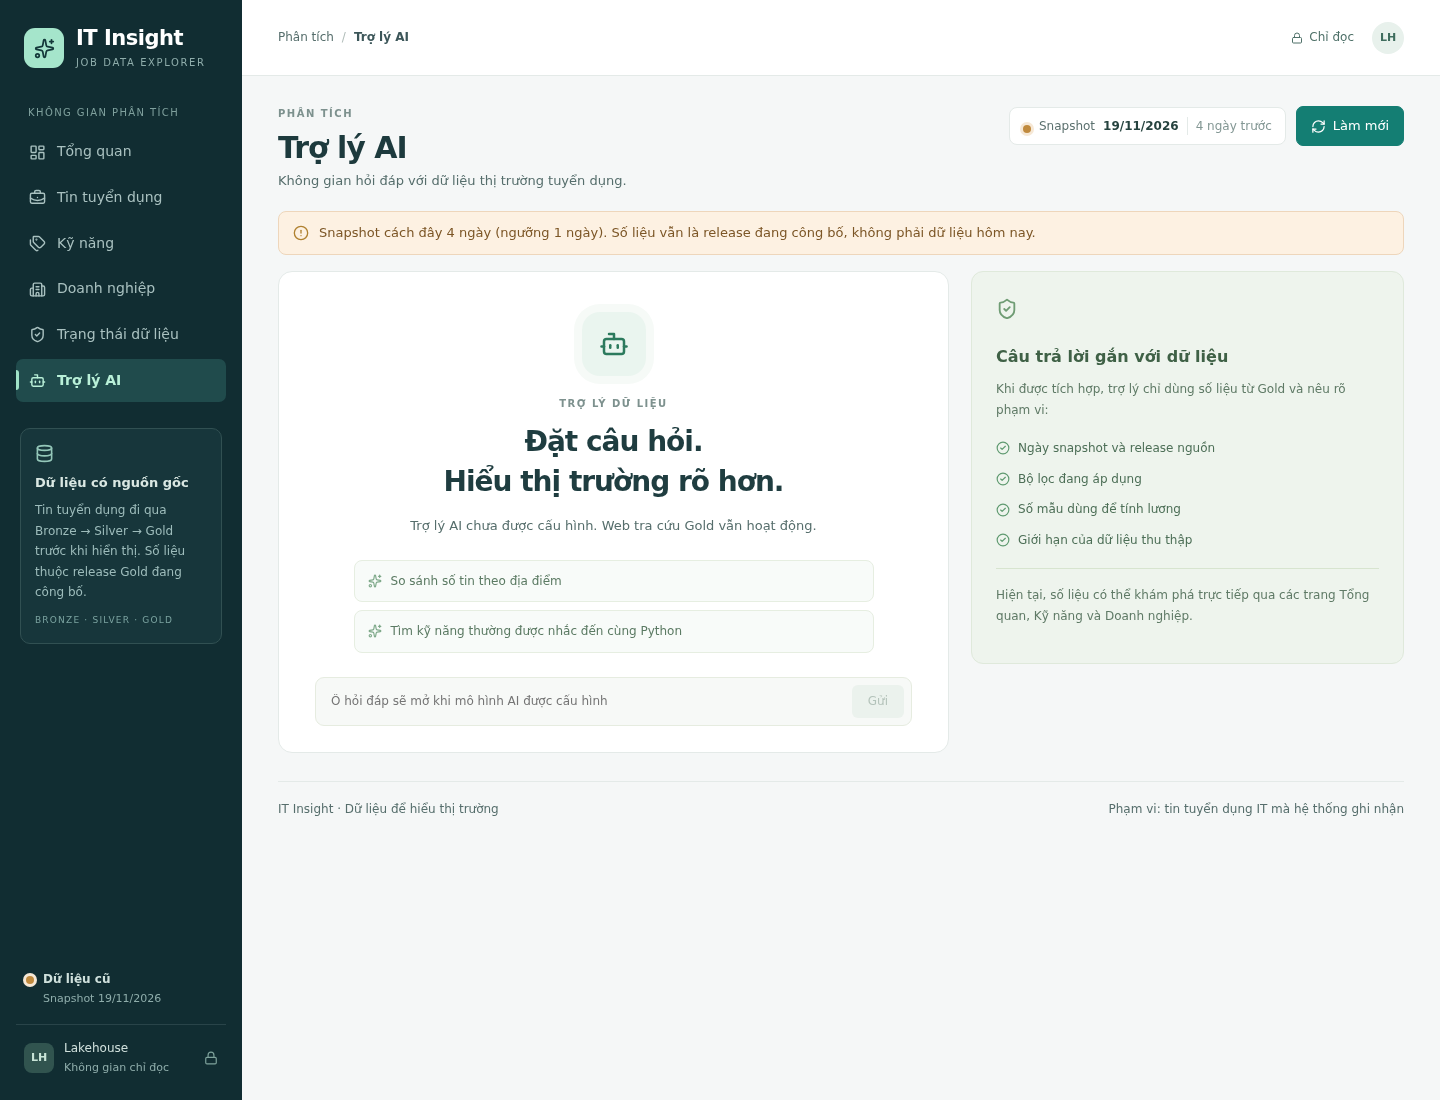
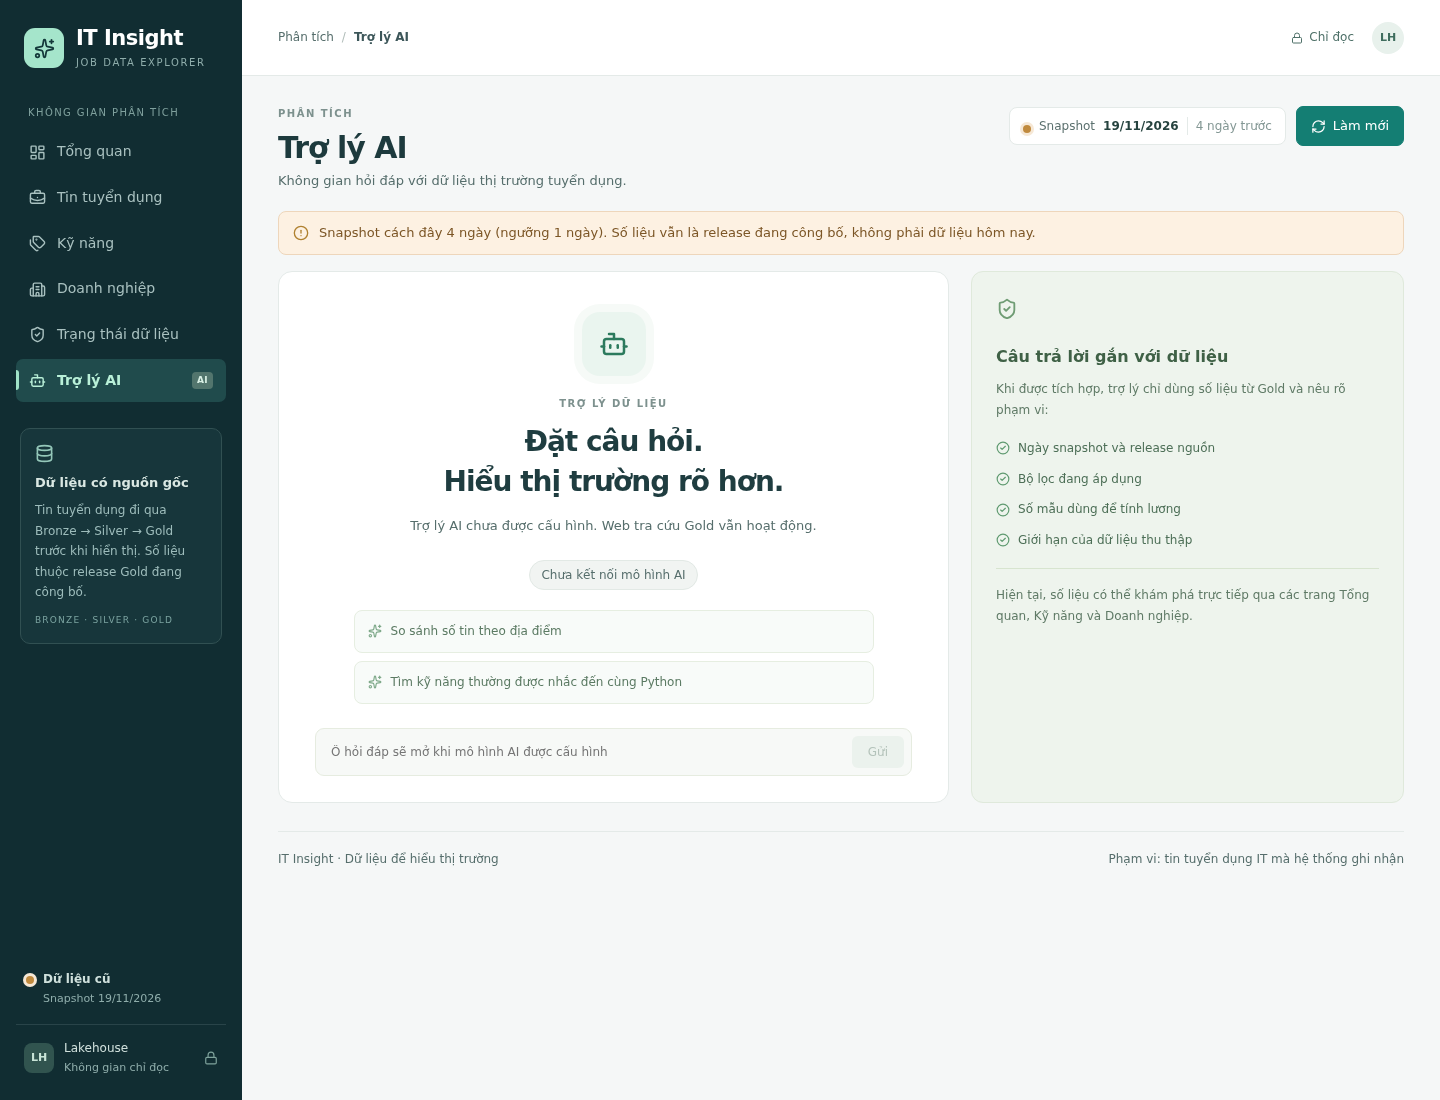
docs(web): record the AI status pill release and accessibility check

diff --git a/docs/web/deployment.md b/docs/web/deployment.md
@@ -37,6 +37,9 @@ assets        index-BrQjBdmM.js · index-BUSAfcnn.css (HTML and assets same buil
 probes        /api/health 200 · /api/dashboard 200 · DOM suite 4/4 against :8010
 unchanged     server code, API contract, web.env, DB reader, DAGs, MinIO, nginx
 rollback      ln -sfn releases/20261122T160236Z current && systemctl --user restart it-insight-web
+
+follow-up     releases/20261122T184111Z (commit 0f7f029): AI status pill + "AI" nav badge,
+              assets index-BPr4RTl9.js · DOM suite 4/4 · AX name "Trợ lý AI" unchanged
 ```
 
 The previous release's `VERSION.json` claimed `source_commit b9a0fef` while its assets were
